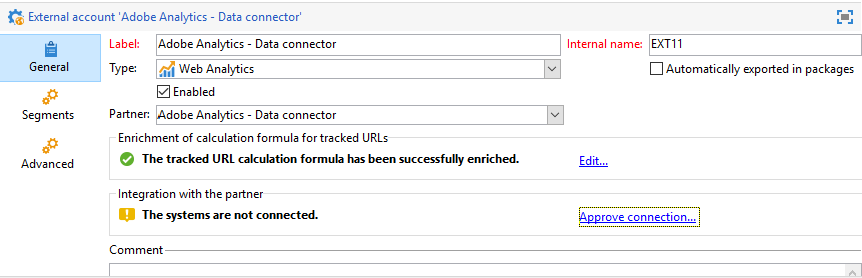
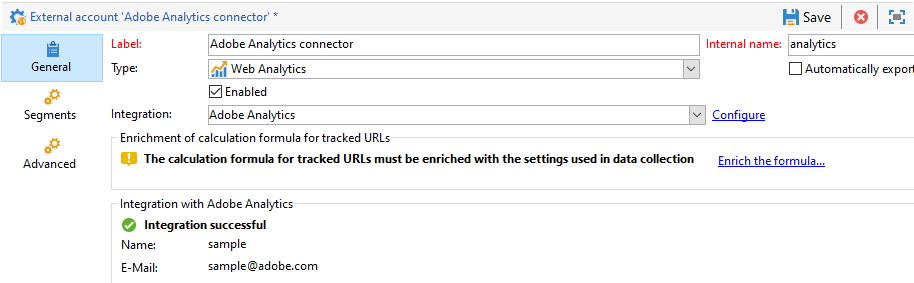
data connector in progress

diff --git a/help/platform/using/adobe-analytics-data-connector.md b/help/platform/using/adobe-analytics-data-connector.md
@@ -35,21 +35,59 @@ The action fields for each tool are as follows:
 
 ## Setting up the integration {#setting-up-the-integration}
 
+To set up the Data connector, you must connect to your Adobe Campaign instance and perform the following operations:
+
+1. [Create your Report suite in Adobe Analytics](#report-suite-analytics)
+1. [Configure your external account in Adobe Campaign Classic](#external-account-classic)
+
 ### Create your Report suite in Adobe Analytics {#report-suite-analytics}
 
 To set up the Adobe Analytics/Adobe Campaign Classic integration, you must connect to your Adobe Campaign instance and perform the following operations:
 
 In Adobe Analytics:
 
+1. From [!DNL Adobe Analytics], select the **[!UICONTROL Admin tab]** then click **[!UICONTROL All admin]**.
+
+   ![](assets/analytics_connnector_1.png)
+
+1. Click **[!UICONTROL Report suites]**.
+
+   ![](assets/analytics_connnector_2.png)
+
+1. From the **[!UICONTROL Report suite manager]** page, click **[!UICONTROL Create new]** then **[!UICONTROL Report suite]**.
+
+   ![](assets/analytics_connnector_3.png)
+
 1. Create a new **[!UICONTROL Report suite]**. 
 
    For the detailed procedure on Report suite creation, refer to this [section](https://experienceleague.adobe.com/docs/analytics/admin/manage-report-suites/new-report-suite/t-create-a-report-suite.html?lang=en#prerequisites).
 
-1. From your **[!UICONTROL Report suite]**, create two **[!UICONTROL Conversion variables]**: one for the Delivery name and one for the BroadlogID. 
+   ![](assets/analytics_connnector_3.png)
+
+1. Select a template. Then, configure your new report suite with the following information:
+   * **[!UICONTROLReport Suite ID]**
+   * **[!UICONTROLSite Title]**
+   * **[!UICONTROLTime Zone]**
+   * **[!UICONTROLGo Live Date]**
+   * **[!UICONTROL Estimated Page Views Per Day]**
+
+   ![](assets/analytics_connnector_4.png)
+
+1. When configured, click **[!UICONTROL Create report suite]**.
+
+1. Select your configured **[!UICONTROL Report suite]**. From the  **[!UICONTROL Edit settings]** button, select  **[!UICONTROL Conversion]** >  **[!UICONTROL Conversion variables]**.
+
+   ![](assets/analytics_connnector_5.png)
+
+1. By clicking **[!UICONTROL Add new]**, create two **[!UICONTROL Conversion variables]**: one for the Delivery name and one for the BroadlogID.
+   Specify the identifiers required for measuring the impact of the email campaign, i.e. the internal campaign name (cid) and the iNmsBroadlog (bid) table ID. You should also specify the indicators for events to be collected.
+   Make sure that your **[!UICONTROL Events]** are of Numeric type, otherwise they will not appear in the drop-down menu.
 
    To learn how to edit **[!UICONTROL Conversion variables]**, refer to this [section](https://experienceleague.adobe.com/docs/analytics/admin/admin-tools/conversion-variables/t-conversion-variables-admin.html?lang=en#admin-tools).
 
-1. Then, configure the following **[!UICONTROL Success events]**:
+1. From the  **[!UICONTROL Edit settings]** button, select  **[!UICONTROL Conversion]** >  **[!UICONTROL Success events]**. 
+
+1. Click **[!UICONTROL Add new]** to configure the following **[!UICONTROL Success events]**:
 
    * **[!UICONTROL Clicked]**
    * **[!UICONTROL Opened]**
@@ -67,6 +105,10 @@ In Adobe Analytics:
 When your report suite is configured, you will need to configure the **[!UICONTROL External accounts]** in Adobe Campaign Classic.
 
 ### Configure your external account in Adobe Campaign Classic {#external-account-classic}
+
+Why are the existing evars/events/reportsuite present in analytics not visible in campaign?
+Integration relies on data on Technical Account Token for day to day operation. If there is missing permission to a dimension/metric/report suite from the product profile associated with Technical Account User, APIs that we use will simply falter for those requests.
+If we are reading for details of an analytics component (like metrics/dimensions/segments/report suites), the API will not return these components in the result ( which may look like something got deleted on the analytics side or is not present ). For some write ops, Analytics API will reject those requests and error out. The solution is to update the product profile in Analytics User Context of Technical User Token with the newly created/missing components by adding these components in adminconsole.adobe.io
 
 1. Install the **[!UICONTROL Web Analytics connectors]** package in Adobe Campaign.
 
